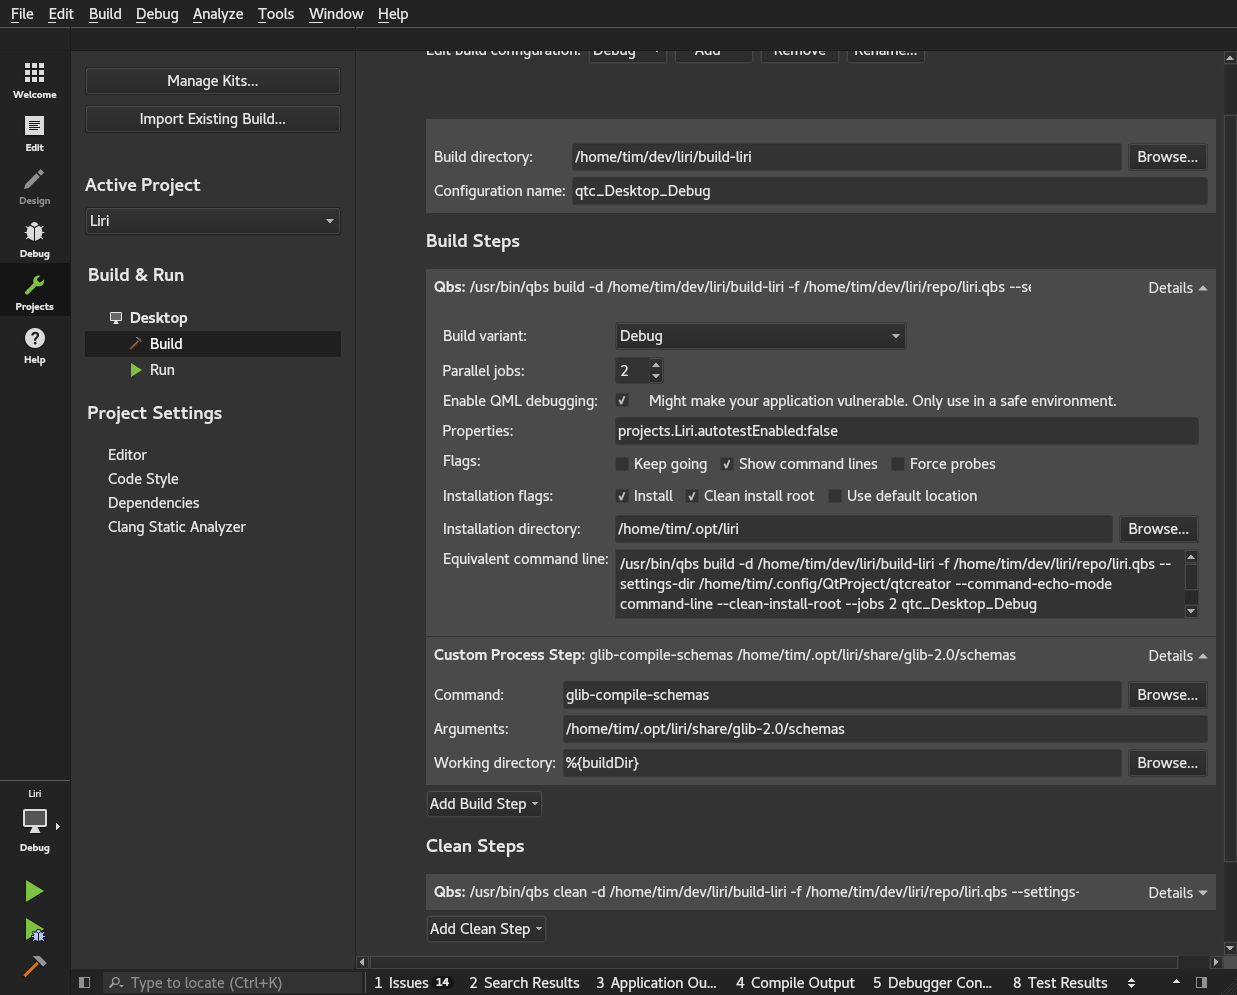
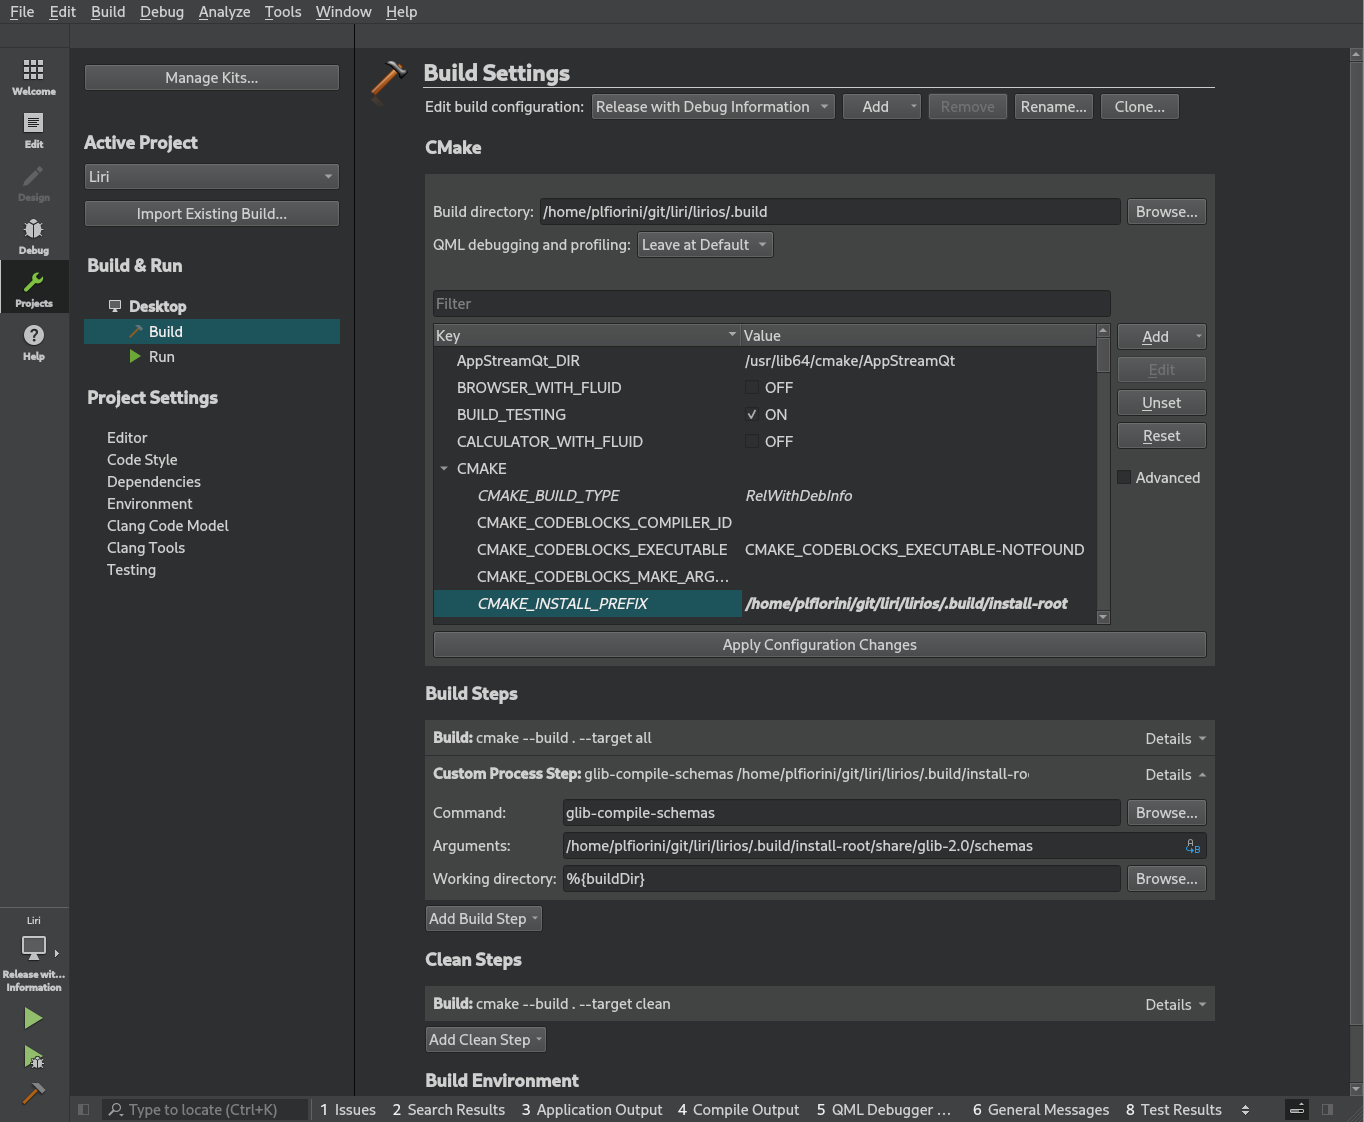
Replace qbs with cmake

diff --git a/docs/contributing/build-sources.md b/docs/contributing/build-sources.md
@@ -20,7 +20,7 @@ We need:
   * qttools
   * qtmultimedia
   * qtwebengine
-* qbs (>= 1.10)
+* cmake (>= 3.10)
 
 ## Install dependencies
 
@@ -33,14 +33,14 @@ Build essentials:
 | Fedora     | `sudo dnf install -y gcc-c++ git`             |
 | OpenSUSE   | `sudo zypper install gcc-c++ git-core`        |
 
-Qt and qbs:
+Qt and cmake:
 
 | Distro     | Command                                                                                                                                                                                                                                        |
 | ---------- | ---------------------------------------------------------------------------------------------------------------------------------------------------------------------------------------------------------------------------------------------- |
-| Debian     | `sudo apt-get install -y qt5-default qtquickcontrols2-5-dev qml-module-qtwayland-compositor qtwayland5-dev-tools qtwebengine5-dev-tools qtwebengine5-private-dev qtwebengine5-dev qtmultimedia5-dev qtsvg5 qt5-doc qttools5-dev qbs qtchooser` |
-| Arch Linux | `sudo pacman -Syu qt5-quickcontrols2 qt5-wayland qt5-webengine qt5-multimedia qt5-svg qt5-doc qt5-tools qbs`                                                                                                                                   |
-| Fedora     | `sudo dnf install -y qt5-qtbase-static qt5-qtbase-private-devel qt5-qtquickcontrols2-devel qt5-qtwayland-devel qt5-qtmultimedia-devel qt5-qtwebengine-devel qt5-qtsvg-devel qt5-qtdoc qt5-qttools-devel qbs qtchooser`                         |
-| OpenSUSE   | `sudo zypper install libqt5-qtquickcontrols2 libqt5-qtquickwayland-devel libqt5-qtwayland-private-headers-devel libqt5-qtwebengine-devel libqt5-qtmultimedia-devel libqt5-qtsvg-devel libqt5-qtdoc-devel libqt5-qttools-devel qbs`             |
+| Debian     | `sudo apt-get install -y qt5-default qtquickcontrols2-5-dev qml-module-qtwayland-compositor qtwayland5-dev-tools qtwebengine5-dev-tools qtwebengine5-private-dev qtwebengine5-dev qtmultimedia5-dev qtsvg5 qt5-doc qttools5-dev cmake qtchooser` |
+| Arch Linux | `sudo pacman -Syu qt5-quickcontrols2 qt5-wayland qt5-webengine qt5-multimedia qt5-svg qt5-doc qt5-tools cmake`                                                                                                                                   |
+| Fedora     | `sudo dnf install -y qt5-qtbase-static qt5-qtbase-private-devel qt5-qtquickcontrols2-devel qt5-qtwayland-devel qt5-qtmultimedia-devel qt5-qtwebengine-devel qt5-qtsvg-devel qt5-qtdoc qt5-qttools-devel cmake qtchooser`                         |
+| OpenSUSE   | `sudo zypper install libqt5-qtquickcontrols2 libqt5-qtquickwayland-devel libqt5-qtwayland-private-headers-devel libqt5-qtwebengine-devel libqt5-qtmultimedia-devel libqt5-qtsvg-devel libqt5-qtdoc-devel libqt5-qttools-devel cmake`             |
 
 Other dependencies:
 
@@ -62,22 +62,18 @@ Marginal dependencies (used on unit tests, etc...):
 
 # Build
 
-Developers should open `liri.qbs` with QtCreator and build there, that is way easier.
+Developers should open `CMakeLists.txt` with QtCreator and build there, that is way easier.
 
 However if you know bash-fu it's possibile to build from sources.
 
-We assume you have a terminal open in the sources root directory, where there's `liri.qbs`.
+We assume you have a terminal open in the sources root directory, where there's `CMakeLists.txt`.
 
-First, let's set up `qbs` if you haven't already done it yet.
-
-```
-qbs setup-toolchains --type gcc /usr/bin/g++ gcc
-qbs setup-qt $(which qmake) qt5
-qbs config profiles.qt5.baseProfile gcc
-```
-
-Then start the build:
+Build:
 
 ```
-qbs -d build -j $(nproc) profile:qt5
+mkdir .build
+cd .build
+cmake -DCMAKE_INSTALL_PREFIX=$(pwd)/install-root ..
+make
+make install
 ```

diff --git a/docs/contributing/contributor-guide/index.md b/docs/contributing/contributor-guide/index.md
@@ -44,8 +44,8 @@ To clone the latest source of all projects over SSH, perform the following proce
 Firstly, create a new directory for Liri. This will be referred to as repo root in the docs. Switch to it by executing the following commands:
 
 ```sh
-mkdir ~/lirios
-cd ~/lirios
+mkdir -p ~/git/liri/lirios
+cd ~/git/liri/lirios
 ```
 
 Initialize the repository by executing one of the following commands, as appropriate.
@@ -93,12 +93,12 @@ The installation root is the directory where all files will be installed when bu
 To set your environment variables correctly so you will be able to launch the cross platform apps, run
 
 ```sh
-source env-setup.sh [configuration-name] [nvidia]
+source env-setup.sh [nvidia]
 ```
 
 **Note** for users running the Nvidia proprietary drivers: Supply the `nvidia` argument every time you run the env-setup.sh script
 
-By default, `.build` inside your repo root will be used as installation root. To change this, issue the command with the LIRIDIR prefix instead
+By default, `.build/install-root` inside your repo root will be used as installation root. To change this, issue the command with the LIRIDIR prefix instead
 
 ```sh
 LIRIDIR="path/to/directory" source env-setup.sh [nvidia]
@@ -106,7 +106,7 @@ LIRIDIR="path/to/directory" source env-setup.sh [nvidia]
 
 ## Open the project
 
-Run `QtCreator` and open the master project file `liri.qbs` inside your repo root.
+Run `QtCreator` and open the master project file `CMakeLists.txt` inside your repo root.
 
 ![Project](images/Liri-QtCreator.png)
 
@@ -122,13 +122,11 @@ Make sure the build steps are configured like in this screenshot:
 
 ![Build steps](images/Liri-QtCreator-Setup-BuildSteps.png)
 
-Especially the installation root:
+Set `CMAKE_INSTALL_PREFIX` to change the installation root.
 
-![Build steps](images/Liri-QtCreator-Setup-InstallRoot.png)
+Remember to replace `/home/plfiorini` to your actual home directory.
 
-Remember to replace `/home/tim` to your actual home directory.
-
-If you don't want to run all the unit tests during the build leave `projects.Liri.autotestEnabled:false` in the "Properties" field like in the screenshots, otherwise set it to `projects.Liri.autotestEnabled:true`.
+If you don't want to run all the unit tests during the build set `BUILD_TESTING` to `OFF`.
 
 Now create a custom build step like this:
 
@@ -143,7 +141,7 @@ New repositories might be added to the manifest or new commits are pushed to exi
 Make sure all your changes are either committed or stashed and run:
 
 ```sh
-cd ~/lirios
+cd ~/git/liri/lirios
 repo sync
 ```
 

diff --git a/docs/index.md b/docs/index.md
@@ -6,10 +6,7 @@ Liri uses [Qt](https://www.qt.io), a cross-platform framework, to build apps and
 
 The IDE of choice is [QtCreator](https://www.qt.io/ide/) a cross-platform IDE dedicated to development with Qt.
 
-All projects use the Qbs build system, a new build system that is much easier to use compared to qmake or CMake.
-If you want to learn more, please read the [Qbs manual](http://doc.qt.io/qbs/index.html),
-especially the [setup guide](http://doc.qt.io/qbs/configuring.html) and how to install artifacts
-from the [installation guide](http://doc.qt.io/qbs/installing-files.html).
+All projects use the popular CMake build system.
 
 Source code is managed with [git](https://git-scm.com/) and we use the
 [git flow](http://nvie.com/posts/a-successful-git-branching-model/) workflow.

diff --git a/docs/modules/index.md b/docs/modules/index.md
@@ -40,7 +40,7 @@ We also develop the following libraries:
 - [QtAccountsService](https://github.com/lirios/qtaccountsservice)
 - [QtGSettings](https://github.com/lirios/qtgsettings)
 - [QtUDev](https://github.com/lirios/qtudev)
-- [QbsShared](https://github.com/lirios/qbs-shared)
+- [CMakeShared](https://github.com/lirios/cmake-shared)
 - [LibLiri](https://github.com/lirios/libliri)
 
 ### Desktop environment
